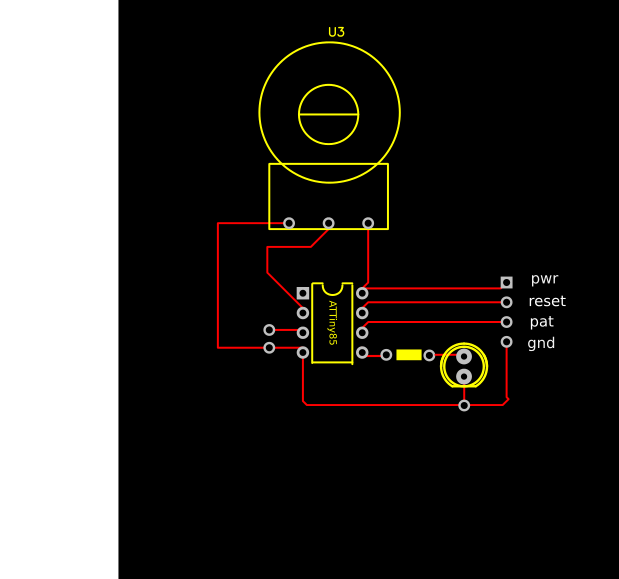
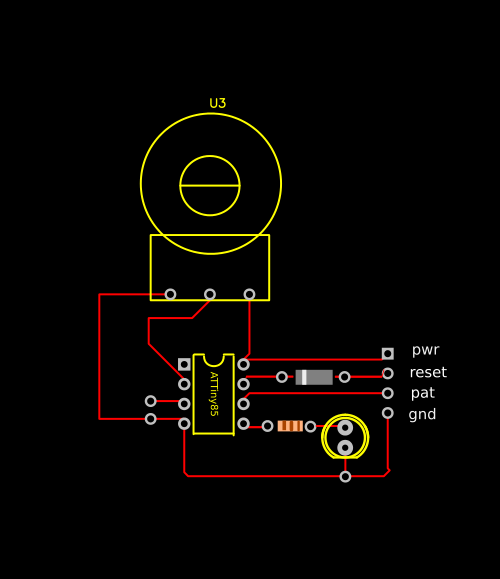
lwd: added diode to reset line, tweak to tiny code

diff --git a/LongWatchdog/readme.md b/LongWatchdog/readme.md
@@ -16,15 +16,15 @@ a relative reading always between 0 and 1023. Its just a matter of sensitivity a
 wether its a linear or taper pot. Likewise the resistor value isnt really critical 
 either, see what makes your LED have a comfortable glow.
 
-Note2: there are two techniques available for patting the dog. The first one is 
-using a digital write. The second one is used with the 555 watchdog circuits. 
-These ones set the watchdog pin to a high impedence state when not in use (or to 
-pat the dog) to drain the capicator and reset the timeout. Current code using digitalRead
-appears to be compatiable with this technique as well. (Even if I have to switch 
-to analogRead our existing AtTiny circuit is still ok just a a change to analogRead
-and pin swap in the code)
+Note2: the diode between the tiny and reset line allows you to upload sketches to the
+arduino without having to remove the connection wire. 
 
+Note3: i commented out the jumper change detection, seems like it was causing a 
+bug not sure why..
 
+Note4: I think I want to add one more feature, an enable/disable line so you dont always
+need to pat it, but can limit it to certain problem areas of code such as when using wifi. 
+I am out of pins on the tiny though as is..transistor on power/gnd from host?
 </pre>
 
 ![screenshot](https://raw.githubusercontent.com/dzzie/home_automation/master/LongWatchdog/final_board.jpg)
